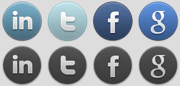
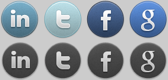
add modal for submit project, add styles to project show page, add avavatar column to db

diff --git a/app/assets/stylesheets/widget.css b/app/assets/stylesheets/widget.css
@@ -40,10 +40,10 @@ text-decoration: none;
 .logo {
   background: url(/assets/buttons.png);
   display: block;
-  height: 44px;
-  width: 44px;
+  height: 41px;
+  width: 42px;
   text-indent: -9999px;
-  background-position: 0 -43px;
+  background-position: 0 -39px;
 
 }
 
@@ -52,26 +52,26 @@ text-decoration: none;
 }
 
 .logo.twitter {
-	 background-position: -45px 43px;
+	 background-position: -40px -40px;
 }
 
 .logo.twitter:hover {
-	 background-position: -45px 0;
+	 background-position: -40px 0 ;
 }
 .logo.facebook {
-	 background-position: -90px 43px;
+	 background-position: -82px -40px;
 }
 
 .logo.facebook:hover {
-	 background-position: -90px 0;
+	 background-position: -82px 0;
 }
 
 .logo.github {
-	 background-position: -135px 43px;
+	 background-position: -124px -40px;
 }
 
 .logo.github:hover {
-	 background-position: -135px 0;
+	 background-position: -124px 0;
 }
 
 .navbar.navbar-inverse.navbar-fixed-top a {
@@ -84,4 +84,37 @@ display: inline;
 
 .contacts_nav a{
 	display:inline-block;
+}
+
+.github_stats_window {
+  height: auto;
+  box-shadow: inset 0px 0px 60px #ccc, 0px 2px 6px #999;
+  background-color: #ccc;
+  border-radius: 2px;
+  border:10px solid #fff;
+  overflow:hidden;
+}
+
+
+.repo_name {
+	text-align: center;
+}
+
+.collaborator_box{
+  height: auto;
+  scroll: auto;
+  box-shadow: inset 0px 0px 60px #ccc, 0px 2px 6px #999;
+  background-color: #ccc;
+  border-radius: 2px;
+  border:10px solid #fff;
+  overflow:hidden;
+}
+
+.contributor_avatar {
+  width: 100px;
+  height: 100px;
+}
+
+.modal-backdrop {
+z-index: 1029;
 }

diff --git a/app/assets/stylesheets/layout.css.scss b/app/assets/stylesheets/layout.css.scss
@@ -9,6 +9,7 @@
   color:#45a0cd;
   height:110px;
   box-shadow: 0px 1px 10px #000;
+  position: absolute;
 }
 
 .navbar-inner .container{

diff --git a/app/models/user.rb b/app/models/user.rb
@@ -8,17 +8,10 @@ class User < ActiveRecord::Base
   :default_url => "/images/:style/missing.png"
 
   validates :full_name, :presence => {:message => 'please enter full name'}
-<<<<<<< HEAD
-  validates_format_of :github_html_url, :with => /github/, :message => "please provide an accurate github url"
-  validates_format_of :linkedin_url, :allow_blank => true, :with => /linkedin/, :message => "please provide an accurate linkedin url"
-  validates_format_of :facebook_url, :allow_blank => true, :with => /facebook/, :message => "please provide an accurate facebook url"
-  validates_format_of :twitter_url, :allow_blank => true, :with => /twitter/, :message => "please provide an accurate twitter url"
-=======
-  # validates_format_of :github_html_url, :with => /github/, :message => "please provide an accurate github url"
-  # validates_format_of :linkedin_url, :with => /linkedin/, :message => "please provide an accurate linkedin url"
-  # validates_format_of :facebook_url, :with => /facebook/, :message => "please provide an accurate facebook url"
-  # validates_format_of :twitter_url, :with => /twitter/, :message => "please provide an accurate twitter url"
->>>>>>> changes to yanik branch before branching off
+  validates_format_of :github_html_url, :with => /github/, :if => :github_html_url, :message => "please provide an accurate github url"
+  validates_format_of :linkedin_url, :with => /linkedin/, :if => :linkedin_url, :message => "please provide an accurate linkedin url"
+  validates_format_of :facebook_url, :with => /facebook/, :if => :facebook_url, :message => "please provide an accurate facebook url"
+  validates_format_of :twitter_url, :with => /twitter/, :if => :twitter_url, :message => "please provide an accurate twitter url"
 
   @@admin = ["meowist", "christinachang","modernlegend","anabecker"]
 

diff --git a/app/models/project.rb b/app/models/project.rb
@@ -56,9 +56,10 @@ class Project < ActiveRecord::Base
     #use the logins from login hash to retrieve other attributes for each collaborator(i.e., 'user')
     logins_assignment_hash.collect do |login|
       name = get_name_from_login(login, client)
+      full_name = "Anonymous" unless name
       html_url = get_github_html_url_from_login(login, client)
       avatar_url = get_avatar_url_from_login(login, client)
-    {:github_login=> login[:github_login], :full_name => name, :github_html_url => html_url, :avatar_url => avatar_url}
+    {:github_login=> login[:github_login], :full_name => name || full_name, :github_html_url => html_url, :avatar_url => avatar_url}
     end
   end
 
@@ -68,11 +69,13 @@ class Project < ActiveRecord::Base
     assignment_hash.each do |attributes|
       @user = User.find_by_github_login(attributes[:github_login])
       ##if the user being iterated over doesn't exist,create a user w/ an association 
+
     unless @user
+
       @user = User.new
-      @user.full_name = "Anonymous"
-      self.users.build(attributes)
-   
+     
+      self.users.create(attributes)
+      
     else #if user being iterated over DOES exist, just build the join row
       unless @user.full_name
         @user.full_name = "Anonymous"
@@ -80,7 +83,7 @@ class Project < ActiveRecord::Base
     self.project_users.build(:user_id => @user.id)
       self.save
     end
-
+     
     end
   end
 

diff --git a/app/controllers/projects_controller.rb b/app/controllers/projects_controller.rb
@@ -46,7 +46,7 @@ class ProjectsController < ApplicationController
         flash[:error] = "Please enter a repo name."
         render :new
       else
-        @project = Project.new(params[:project])
+        @project = Project.create(params[:project])
         @project.set_github_attributes(params,current_user)
         @project.create_associated_user_records(params,current_user) 
         if @project.save
